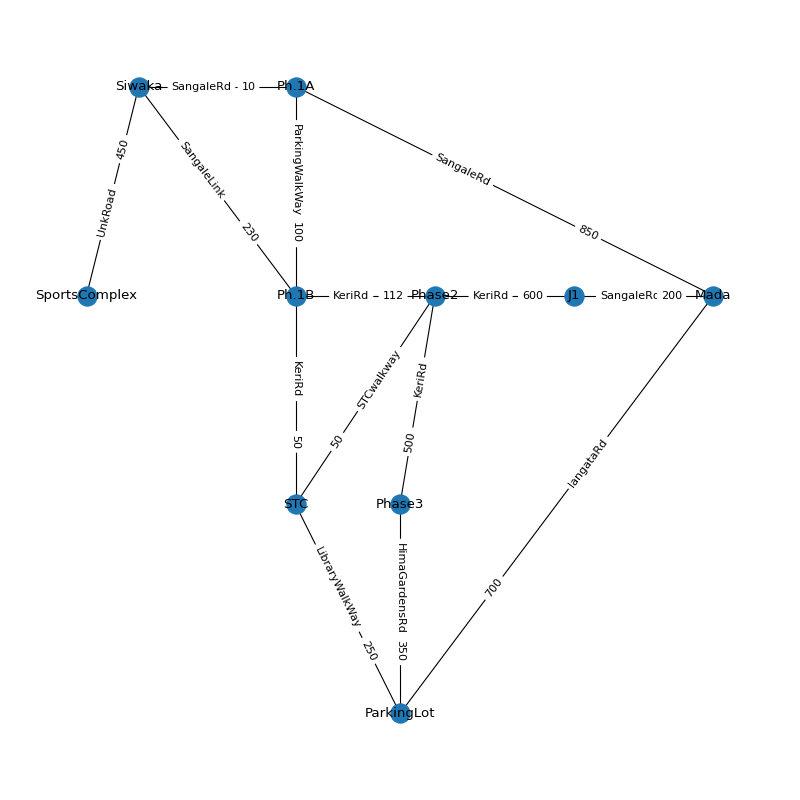
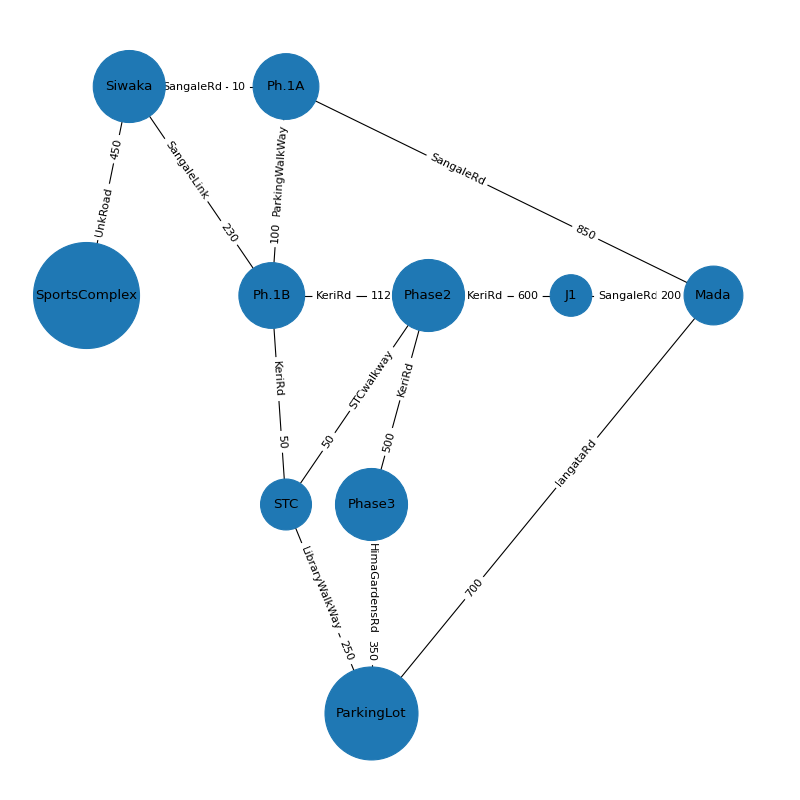
Improved graph

diff --git a/main.py b/main.py
@@ -8,13 +8,13 @@ figure(figsize=(10, 10), dpi=80)
 
 g = nx.Graph()
 
-g.add_node("SportsComplex", pos=(-6, 12))
-g.add_node("Siwaka", pos=(-3, 18))
+g.add_node("SportsComplex", pos=(-8, 12))
+g.add_node("Siwaka", pos=(-5, 18))
 g.add_node("Ph.1A", pos=(6, 18))
-g.add_node("Ph.1B", pos=(6, 12))
-g.add_node("Phase2", pos=(14, 12))
-g.add_node("J1", pos=(22, 12))
-g.add_node("Mada", pos=(30, 12))
+g.add_node("Ph.1B", pos=(5, 12))
+g.add_node("Phase2", pos=(16, 12))
+g.add_node("J1", pos=(26, 12))
+g.add_node("Mada", pos=(36, 12))
 g.add_node("STC", pos=(6, 6))
 g.add_node("Phase3", pos=(12, 6))
 g.add_node("ParkingLot", pos=(12, 0))
@@ -42,6 +42,7 @@ labels = nx.get_edge_attributes(g, 'label')
 weights = nx.get_edge_attributes(g, 'weight')
 nx.draw_networkx_edge_labels(g, pos, edge_labels=labels, label_pos=0.6)
 nx.draw_networkx_edge_labels(g, pos, edge_labels=weights, label_pos=0.3)
+nx.draw_networkx_nodes(g, pos, node_size=[len(v) * 700 for v in g.nodes()],)
 
 ax = plt.gca()
 ax.margins(0.08)
